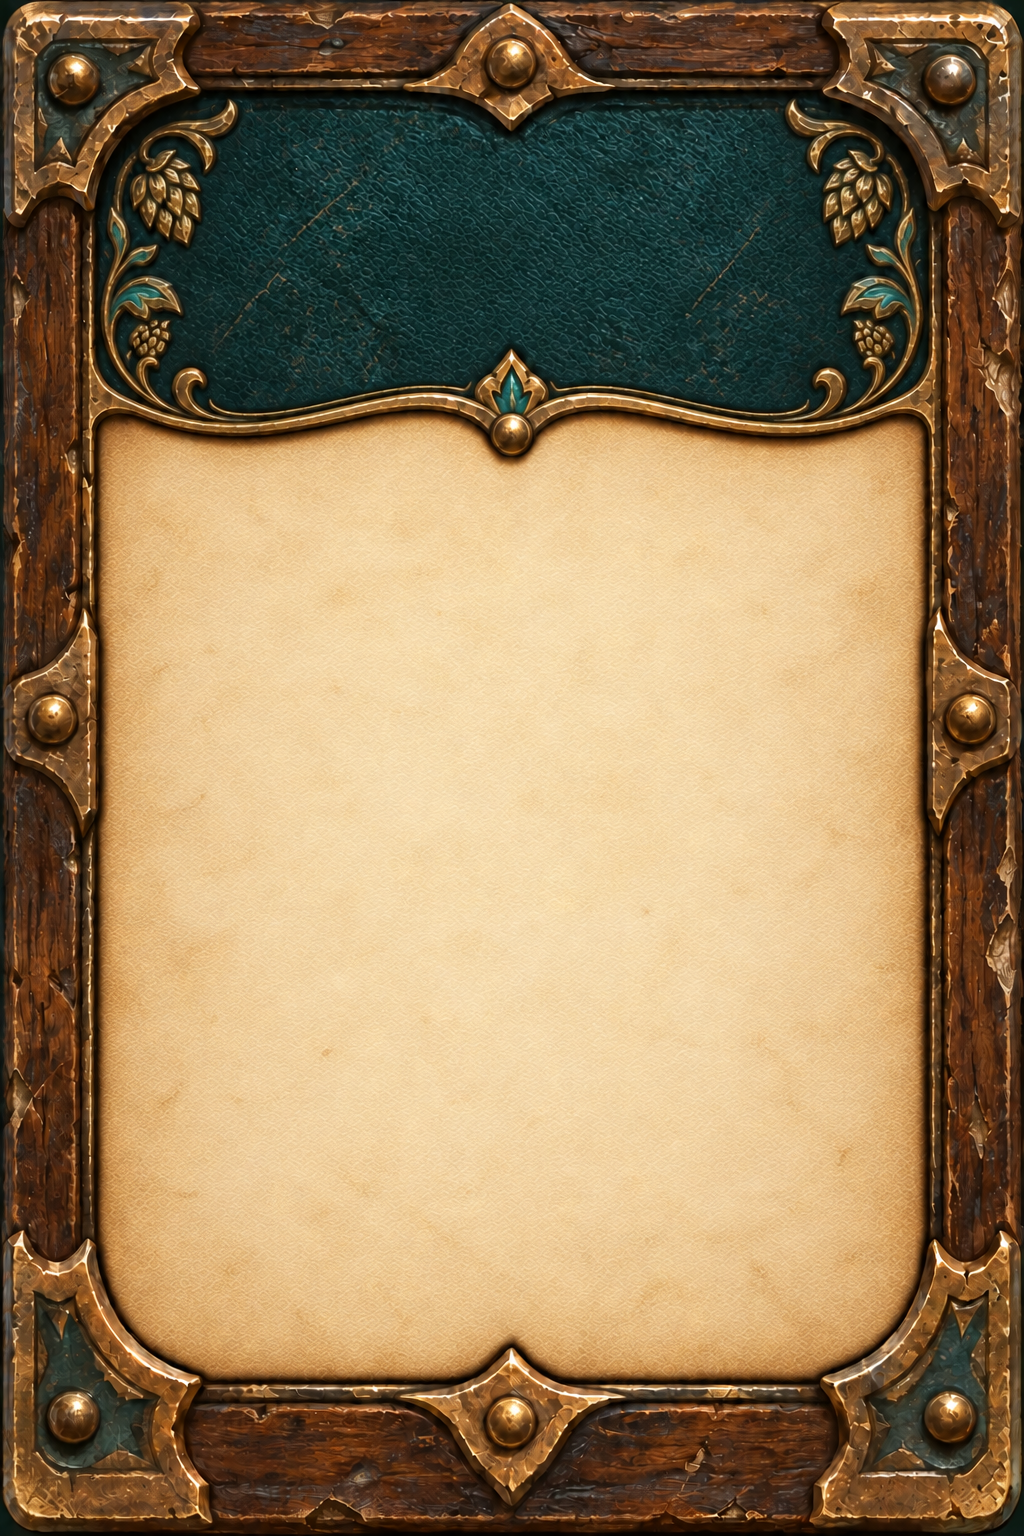
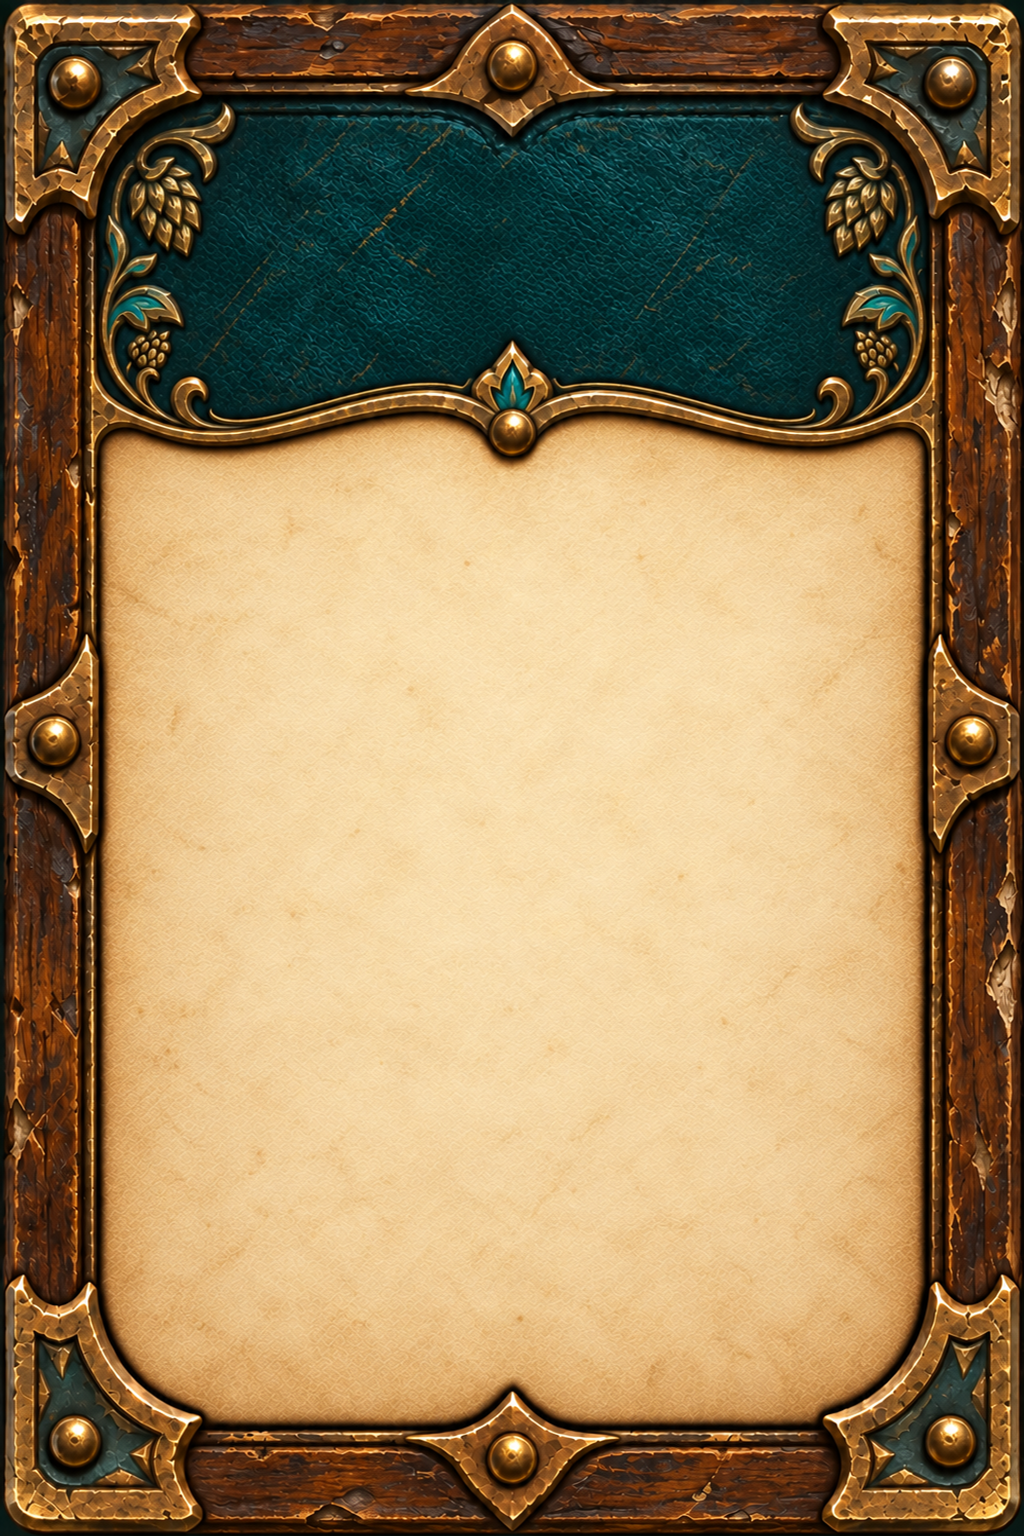
Update symmetric card art surfaces and stabilize the dice tap test
Refreshes the symmetric card-front source, adds its card-back counterpart, updates the shipped card-back and ornate-frame webp surfaces, and delivers raw mouse taps in the dice finish release test so software-rendered WebKit cannot finish the roll before the tap lands.

diff --git a/tests/browser/dice.spec.ts b/tests/browser/dice.spec.ts
@@ -193,7 +193,16 @@ test("@release a second tap finishes the moving dice, then reveals the bold amou
   await seed(page);
   const errors: string[] = [];
   page.on("pageerror", (error) => errors.push(error.message));
-  await page.locator(".game-card").click();
+  // Deliver taps as raw input. locator.click() waits for the card to hold
+  // still for two frames, and on a software-rendered CI WebKit the dice
+  // animation starves the main thread long enough for the roll to finish on
+  // its own before the finish tap lands; the tap is still a stationary press
+  // on the card, which is exactly what the gesture code expects.
+  const tapCard = async () => {
+    const box = (await page.locator(".game-card").boundingBox())!;
+    await page.mouse.click(box.x + box.width / 2, box.y + box.height / 2);
+  };
+  await tapCard();
   const committed = await saved(page);
   await expect(page.locator(".roll-stage")).toHaveAttribute(
     "data-renderer",
@@ -202,7 +211,7 @@ test("@release a second tap finishes the moving dice, then reveals the bold amou
   await expect(page.locator(".game-card")).toHaveAccessibleName(
     "Finish dice roll",
   );
-  await page.locator(".game-card").click();
+  await tapCard();
   await expect(page.locator(".roll-layer")).toBeVisible();
   await expect(page.locator(".roll-stage")).toHaveAttribute(
     "data-face-values",
